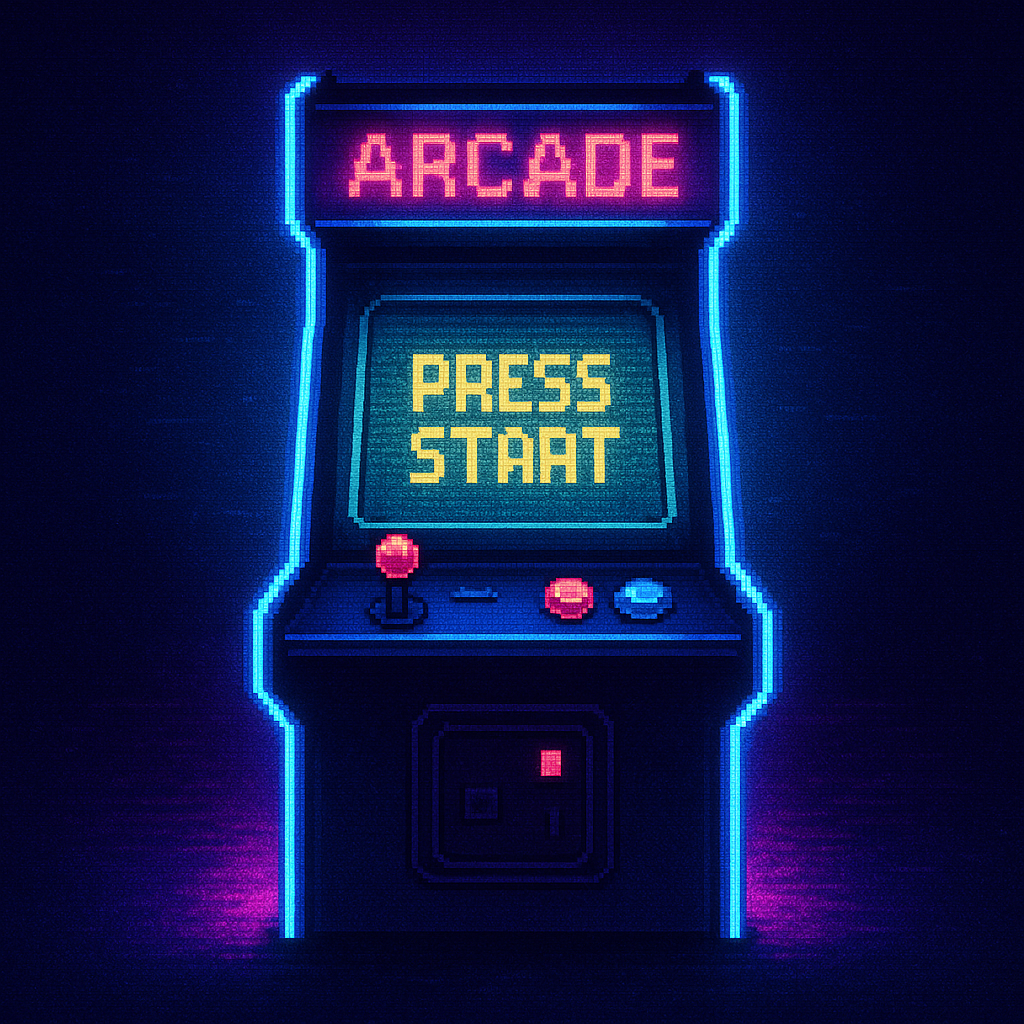
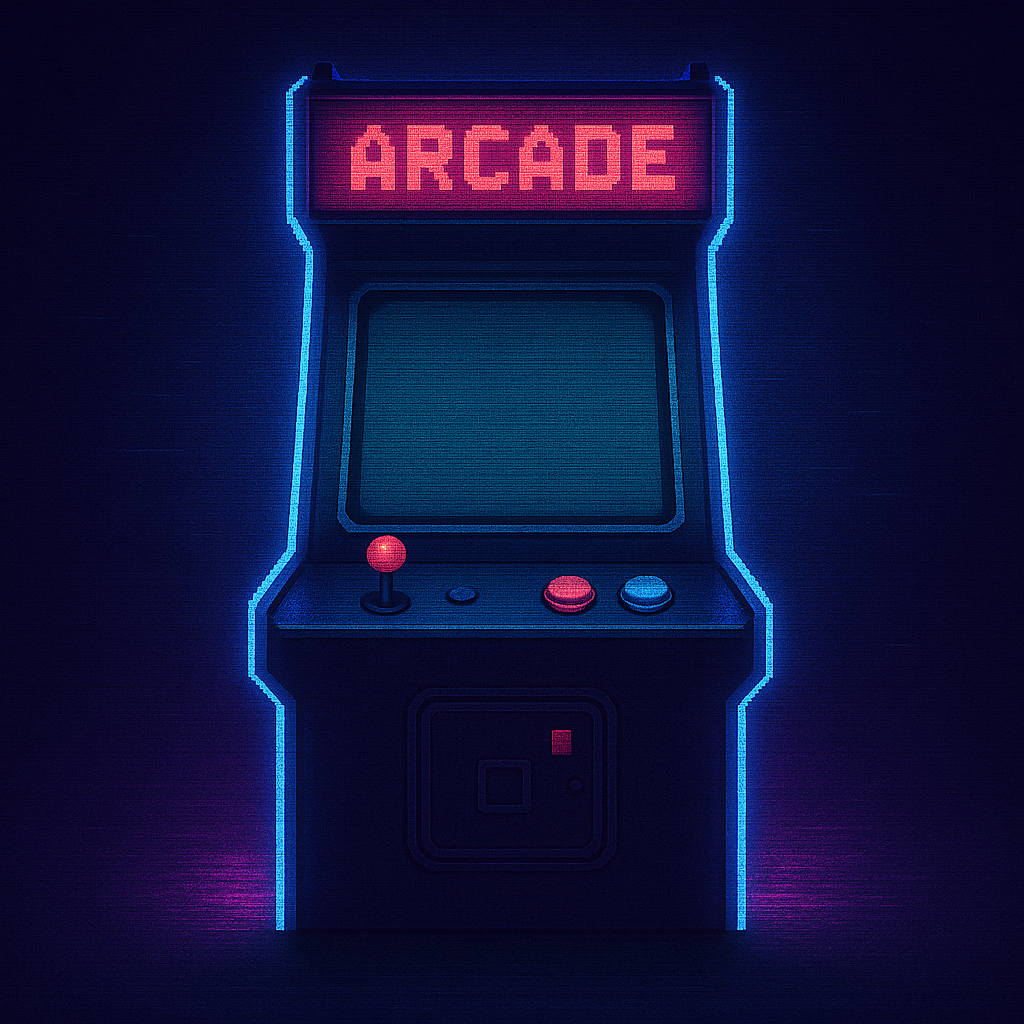
cabinet press start

Changed region(s): [[0.0938, 0.0312, 0.875, 0.9688], [0.4062, 0.6875, 0.625, 0.875], [0.4688, 0.7812, 0.5, 0.8125]]

diff --git a/src/pages/Cabinet/ArcadeCabinet.jsx b/src/pages/Cabinet/ArcadeCabinet.jsx
@@ -1,5 +1,6 @@
 import { motion } from "framer-motion";
 import { useState } from "react";
+import "./ArcadeCabinet.css";
 import Navbar from "../../comp/Navbar";
 import Cabinet from "./Cabinet";
 
@@ -11,18 +12,27 @@ function ArcadeCabinet() {
   return (
     <>
       <Navbar />
-      <div className="bg-blue-950 h-screen flex items-center justify-center relative overflow-hidden">
+      <div className="arcade-bg h-screen flex items-center justify-center relative overflow-hidden">
         {!zoomedIn && (
-          <motion.img
-            src={cabinetImage}
-            alt="Arcade Cabinet"
-            initial={{ scale: 1, opacity: 1 }}
-            animate={{ scale: 1 }}
-            exit={{ scale: 3, opacity: 0 }}
-            transition={{ duration: 1 }}
-            className="cursor-pointer w-72 md:w-96"
+          <div
+            className="relative w-72 md:w-96 cursor-pointer"
             onClick={() => setZoomedIn(true)}
-          />
+          >
+            <motion.img
+              src={cabinetImage}
+              alt="Arcade Cabinet"
+              initial={{ scale: 1, opacity: 1 }}
+              animate={{ scale: 1, opacity: 1 }}
+              exit={{ scale: 3, opacity: 0 }}
+              transition={{ duration: 1 }}
+              className="arcade-cabinet"
+            />
+            <div className="press-start absolute top-[33%] left-[50.5%] -translate-x-1/2 text-center text-xl">
+              <span>PRESS</span>
+              <br />
+              <span>START</span>
+            </div>
+          </div>
         )}
 
         {zoomedIn && (

diff --git a/src/pages/Cabinet/ArcadeCabinet.css b/src/pages/Cabinet/ArcadeCabinet.css
@@ -1,0 +1,36 @@
+.arcade-bg {
+    background: linear-gradient(135deg, #1e2a78, #5a2a85, #3b2671);
+    position: relative;
+}
+
+.arcade-cabinet {
+    filter: drop-shadow(0 0 10px #0ff) drop-shadow(0 0 20px #0ff);
+    border: 2px solid #0ff;
+    border-radius: 20px;
+    transition: filter 0.3s ease;
+}
+
+.arcade-cabinet:hover {
+    filter: drop-shadow(0 0 20px #0ff) drop-shadow(0 0 40px #0ff);
+}
+
+.press-start {
+    text-align: center;
+    color: yellow;
+    font-family: 'Press Start 2P', cursive;
+    animation: blink 1.5s infinite;
+    text-shadow: 0 0 5px #ff0, 0 0 10px #ff0;
+    pointer-events: none;
+}
+
+@keyframes blink {
+
+    0%,
+    100% {
+        opacity: 1;
+    }
+
+    50% {
+        opacity: 0;
+    }
+}
